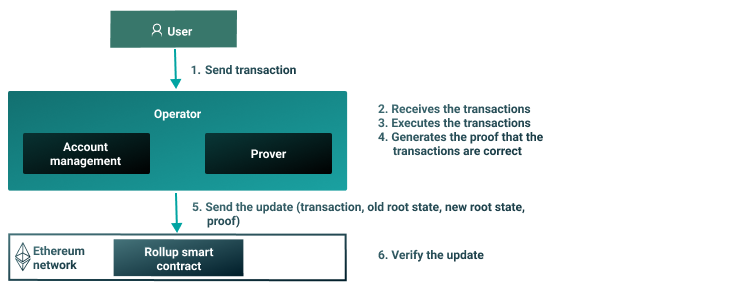
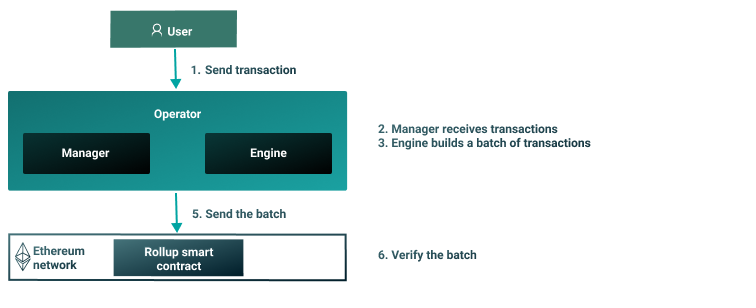
Update diagram, and implement feedback.

diff --git a/docs/index.md b/docs/index.md
@@ -6,20 +6,21 @@ title: Sumo rollups
 
 ## What is Sumo?
 
-Sumo is a framework written in Rust for implementing multiple types of rollups for the Ethereum
+Sumo is a framework for implementing multiple types of rollups for the Ethereum
 blockchain. Rollups are layer 2 scaling solutions that improve the scalability of Ethereum
 networks by performing mass transaction validation off-chain. Sumo supports any EVM-based protocol,
 including Proof of Work (PoW) and Proof of Authority (PoA) protocols.
 
-Sumo currently implements Consensus rollups, with support for ZK-rollups and Optimistic rollups
-being added later.
+Sumo currently implements Consensus rollups. Support for two additional types of rollups
+(ZK-Rollups and Optimistic Rollups) will be added later.
 
 ![Architecture](Images/Sumo-rollup-overview.png)
 
-Sumo introduces a centralized actor called an Operator which receives and executes transactions,
-manages the state, and submits batch transactions to the Ethereum network. The blockchain nodes do
-not re-execute the transactions; they either check the zk-proof or wait until the operators
-reach consensus.
+Sumo introduces a centralized actor called an Operator which consists of a Manager and Engine.
+The operator receives and executes transactions, manages the state, and submits batch transactions
+to the Ethereum network.
+
+Blockchain nodes do not re-execute the transactions; they wait until the operators reach consensus.
 
 ![Sumo workflow](Images/Operator_Flow.png)
 
